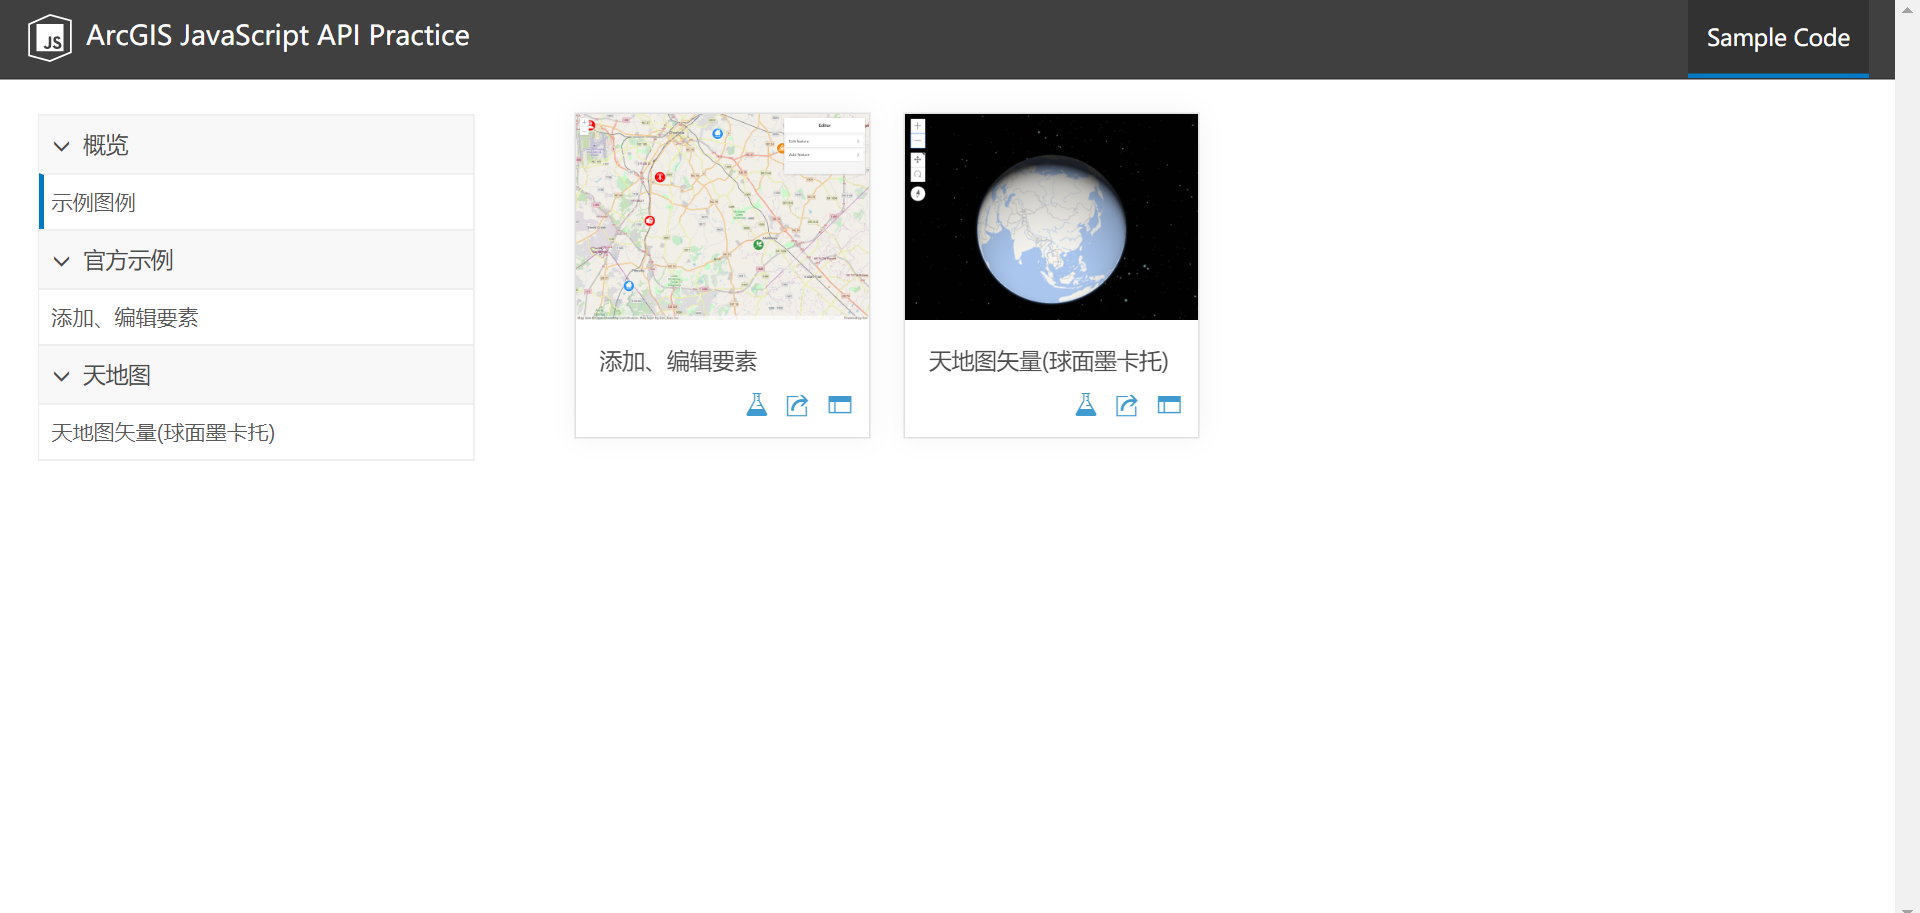
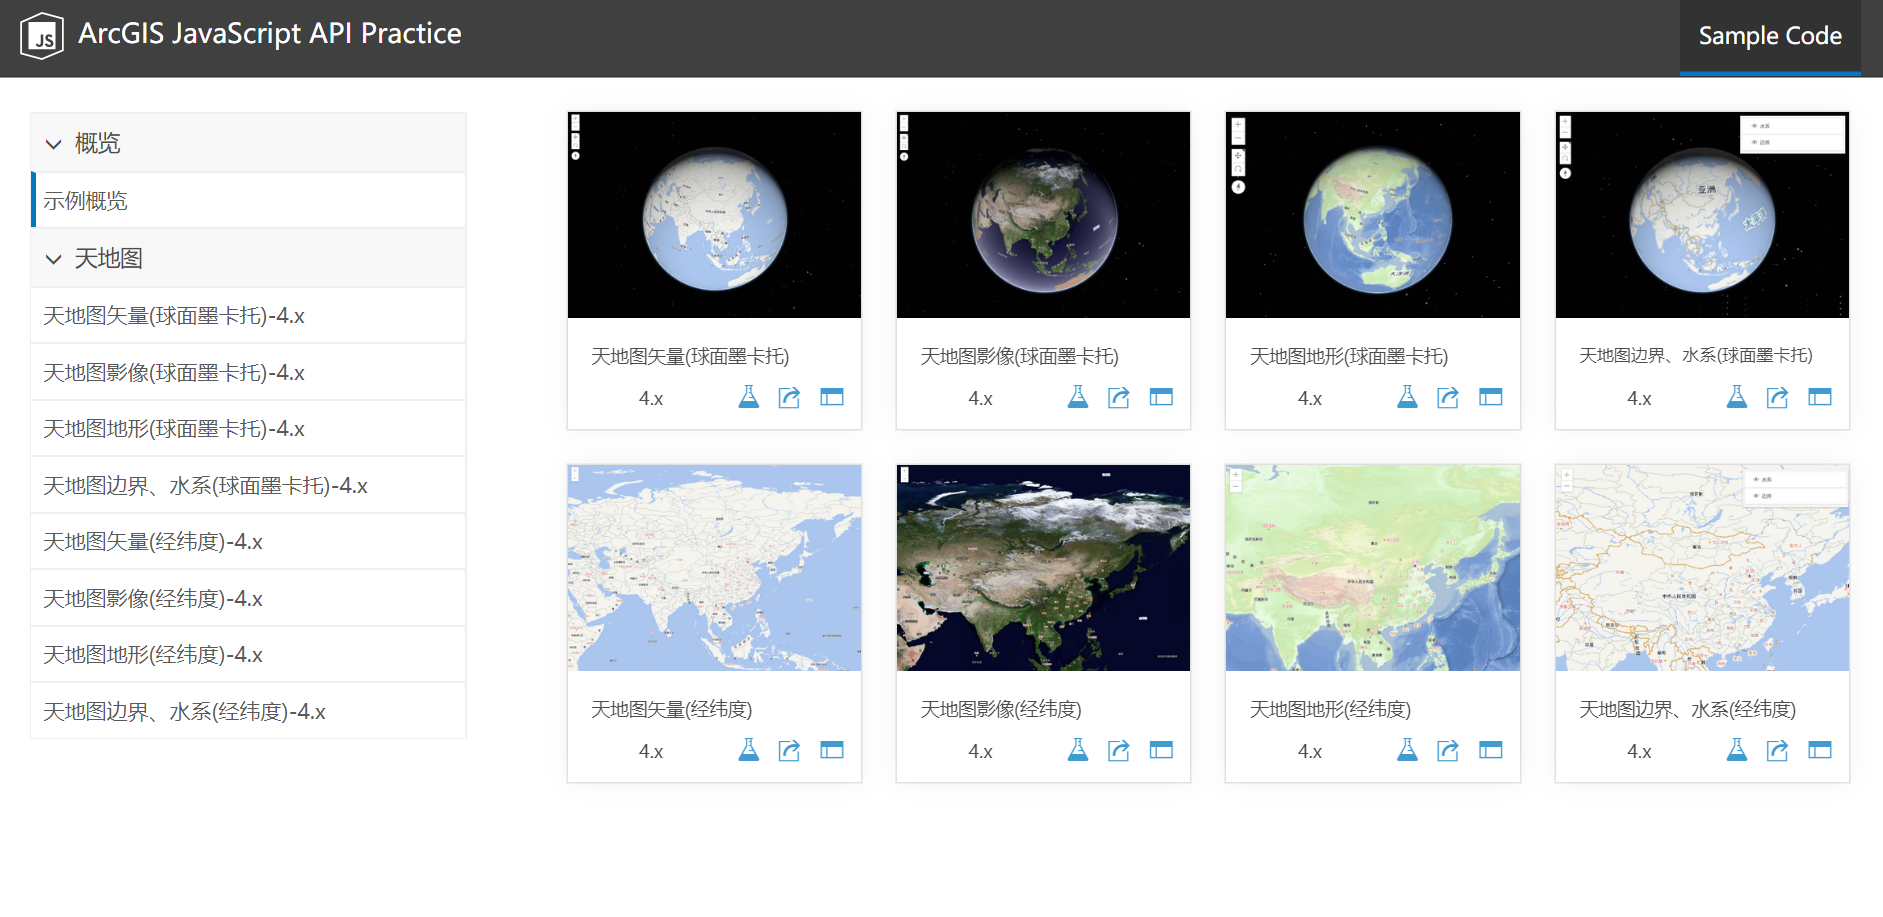
修改天地图边界、水系示例

diff --git a/latest/sample-code/tianditu-ibo_w/live/index.html b/latest/sample-code/tianditu-ibo_w/live/index.html
@@ -3,7 +3,7 @@
 <head>
     <meta charset="utf-8"/>
     <meta name="viewport" content="initial-scale=1,maximum-scale=1,user-scalable=no"/>
-    <title>天地图全球境界(球面墨卡托) - 4.x</title>
+    <title>天地图边界、水系(球面墨卡托) - 4.x</title>
 
     <link rel="stylesheet" href="https://js.arcgis.com/4.12/esri/themes/light/main.css"/>
     <script src="https://js.arcgis.com/4.12/"></script>
@@ -23,31 +23,65 @@
         require([
             "esri/layers/WebTileLayer",
             "esri/Map",
-            "esri/views/SceneView"
-        ], function (WebTileLayer, Map, SceneView) {
+            "esri/views/SceneView",
+            "esri/widgets/LayerList",
+            'dojo/domReady!'
+        ], function (WebTileLayer, Map, SceneView, LayerList) {
             var tiandituBaseUrl = "http://{subDomain}.tianditu.gov.cn"; //天地图服务地址
             var token = "174705aebfe31b79b3587279e211cb9a"; //天地图token
 
+            //矢量地图(球面墨卡托投影)
+            var tiledLayer = new WebTileLayer({
+                title: "矢量地图",
+                urlTemplate: tiandituBaseUrl + "/vec_w/wmts?SERVICE=WMTS&VERSION=1.0.0&REQUEST=GetTile&LAYER=vec&STYLE=default&FORMAT=tiles&TILEMATRIXSET=w&TILEMATRIX={level}&TILEROW={row}&TILECOL={col}&tk=" + token,
+                subDomains: ["t0", "t1", "t2", "t3", "t4", "t5", "t6", "t7"]
+            });
+
+            //矢量注记(球面墨卡托投影)
+            var tiledLayerAnno = new WebTileLayer({
+                title: "矢量注记",
+                urlTemplate: tiandituBaseUrl + "/cva_w/wmts?SERVICE=WMTS&VERSION=1.0.0&REQUEST=GetTile&LAYER=cva&STYLE=default&FORMAT=tiles&TILEMATRIXSET=w&TILEMATRIX={level}&TILEROW={row}&TILECOL={col}&tk=" + token,
+                subDomains: ["t0", "t1", "t2", "t3", "t4", "t5", "t6", "t7"]
+            });
+
+            //边界(球面墨卡托投影)
+            var iboLayer = new WebTileLayer({
+                title: "边界",
+                urlTemplate: tiandituBaseUrl + "/ibo_w/wmts?SERVICE=WMTS&VERSION=1.0.0&REQUEST=GetTile&LAYER=ibo&STYLE=default&FORMAT=tiles&TILEMATRIXSET=w&TILEMATRIX={level}&TILEROW={row}&TILECOL={col}&tk=" + token,
+                subDomains: ["t0", "t1", "t2", "t3", "t4", "t5", "t6", "t7"]
+            });
+
+            //水系(球面墨卡托投影)
+            var waterLayer = new WebTileLayer({
+                title: "水系",
+                urlTemplate: tiandituBaseUrl + "/wat_w/wmts?SERVICE=WMTS&VERSION=1.0.0&REQUEST=GetTile&LAYER=wat&STYLE=default&FORMAT=tiles&TILEMATRIXSET=w&TILEMATRIX={level}&TILEROW={row}&TILECOL={col}&tk=" + token,
+                subDomains: ["t0", "t1", "t2", "t3", "t4", "t5", "t6", "t7"]
+            });
+
             var map = new Map({
-                ground: "world-elevation"
+                ground: "world-elevation",
+                basemap: {
+                    baseLayers: [tiledLayer, tiledLayerAnno]
+                },
+                layers: [iboLayer, waterLayer]
             });
 
             var view = new SceneView({
                 container: "viewDiv",
                 map: map,
                 scale: 123456789,
-                center: [-65, -15]
+                center: [108.953098279, 34.2777998978]
             });
 
-            //全球境界(球面墨卡托投影)
-            var tiledLayer = new WebTileLayer({
-                urlTemplate:
-                tiandituBaseUrl + "/ibo_w/wmts?SERVICE=WMTS&VERSION=1.0.0&REQUEST=GetTile&LAYER=ibo&STYLE=default&FORMAT=tiles&TILEMATRIXSET=w&TILEMATRIX={level}&TILEROW={row}&TILECOL={col}&tk=" + token,
-                subDomains:
-                    ["t0", "t1", "t2", "t3", "t4", "t5", "t6", "t7"]
+            view.when(function () {
+                var layerList = new LayerList({
+                    view: view
+                });
+
+                // Add widget to the top right corner of the view
+                view.ui.add(layerList, "top-right");
             });
 
-            map.add(tiledLayer);
         });
     </script>
 </head>

diff --git a/latest/sample-code/tianditu-ibo_c/live/index.html b/latest/sample-code/tianditu-ibo_c/live/index.html
@@ -3,10 +3,10 @@
 <head>
     <meta charset="utf-8"/>
     <meta name="viewport" content="initial-scale=1,maximum-scale=1,user-scalable=no"/>
-    <title>天地图全球境界(经纬度) - 4.x</title>
+    <title>天地图边界、水系(经纬度) - 4.x</title>
 
     <!-- 用4.12的api会报错  -->
-    <link rel="stylesheet" href="https://js.arcgis.com/4.10/esri/css/main.css"/>
+    <link rel="stylesheet" href="https://js.arcgis.com/4.10/esri/themes/light/main.css"/>
     <script src="https://js.arcgis.com/4.10/"></script>
 
     <style>
@@ -26,8 +26,9 @@
             "esri/layers/WebTileLayer",
             'esri/layers/support/TileInfo',
             'esri/views/MapView',
+            "esri/widgets/LayerList",
             'dojo/domReady!'
-        ], function (Map, WebTileLayer, TileInfo, MapView) {
+        ], function (Map, WebTileLayer, TileInfo, MapView, LayerList) {
             var tiandituBaseUrl = "http://{subDomain}.tianditu.com"; //天地图服务地址
             var token = "174705aebfe31b79b3587279e211cb9a"; //天地图token
 
@@ -65,11 +66,34 @@
                     {level: 19, levelValue: 19, resolution: 2.68220901489257815e-006, scale: 1127.23386023998275},
                     {level: 20, levelValue: 2, resolution: 1.341104507446289075e-006, scale: 563.616930119991375}
                 ]
-            })
+            });
 
-            //地图(经纬度)
+            //矢量地图(经纬度)
             var tiledLayer = new WebTileLayer({
+                urlTemplate: tiandituBaseUrl + "/DataServer?T=vec_c&x={col}&y={row}&l={level}&tk=" + token,
+                subDomains: ["t0", "t1", "t2", "t3", "t4", "t5", "t6", "t7"],
+                tileInfo: tileInfo
+            });
+
+            //矢量注记(经纬度)
+            var tiledLayerAnno = new WebTileLayer({
+                urlTemplate: tiandituBaseUrl + "/DataServer?T=cva_c&x={col}&y={row}&l={level}&tk=" + token,
+                subDomains: ["t0", "t1", "t2", "t3", "t4", "t5", "t6", "t7"],
+                tileInfo: tileInfo
+            });
+
+            //边界(经纬度)
+            var iboLayer = new WebTileLayer({
+                title: "边界",
                 urlTemplate: tiandituBaseUrl + "/DataServer?T=ibo_c&x={col}&y={row}&l={level}&tk=" + token,
+                subDomains: ["t0", "t1", "t2", "t3", "t4", "t5", "t6", "t7"],
+                tileInfo: tileInfo
+            });
+
+            //水系(经纬度)
+            var waterLayer = new WebTileLayer({
+                title: "水系",
+                urlTemplate: tiandituBaseUrl + "/DataServer?T=wat_c&x={col}&y={row}&l={level}&tk=" + token,
                 subDomains: ["t0", "t1", "t2", "t3", "t4", "t5", "t6", "t7"],
                 tileInfo: tileInfo
             });
@@ -80,8 +104,9 @@
                     wkid: 4326
                 },
                 basemap: {
-                    baseLayers: [tiledLayer]
-                }
+                    baseLayers: [tiledLayer, tiledLayerAnno]
+                },
+                layers: [iboLayer, waterLayer]
             });
 
             var view = new MapView({
@@ -90,10 +115,20 @@
                     wkid: 4326
                 },
                 map: map,
-                center: [121.67, 42.01],
+                center: [108.953098279, 34.2777998978],
                 //1:scale的图
-                scale: 2000000
+                scale: 30000000
             });
+
+            view.when(function () {
+                var layerList = new LayerList({
+                    view: view
+                });
+
+                // Add widget to the top right corner of the view
+                view.ui.add(layerList, "top-right");
+            });
+
 
         });
     </script>

diff --git a/latest/sample-code/index.html b/latest/sample-code/index.html
@@ -66,7 +66,7 @@
                         </nav>
                         <nav class="accordion-content">
                             <a href="../../latest/sample-code/sandbox/index.html?sample=tianditu-ibo_w"
-                               target="_blank" class="side-nav-link">天地图全球境界(球面墨卡托)-4.x</a>
+                               target="_blank" class="side-nav-link">天地图边界、水系(球面墨卡托)-4.x</a>
                         </nav>
                         <nav class="accordion-content">
                             <a href="../../latest/sample-code/sandbox/index.html?sample=tianditu-vec_c"
@@ -82,7 +82,7 @@
                         </nav>
                         <nav class="accordion-content">
                             <a href="../../latest/sample-code/sandbox/index.html?sample=tianditu-ibo_c"
-                               target="_blank" class="side-nav-link">天地图全球境界(经纬度)-4.x</a>
+                               target="_blank" class="side-nav-link">天地图边界、水系(经纬度)-4.x</a>
                         </nav>
                     </div>
                 </aside>
@@ -191,7 +191,7 @@
                                         alt="tianditu-ibo_w"></a>
                                 </figure>
                                 <div class="card-content">
-                                    <p class="font-size--4 card-last trailer-1">天地图全球境界(球面墨卡托)</p>
+                                    <p class="font-size--5 card-last trailer-1">天地图边界、水系(球面墨卡托)</p>
                                     <div class="open-out-container">
                                         <span style="padding-right: 30%;font-size: 12px">4.x</span>
                                         <button class="open-out-icon open-out-icon-hidden icon-ui-download js-btn-save-file"
@@ -307,7 +307,7 @@
                                         alt="tianditu-ibo_c"></a>
                                 </figure>
                                 <div class="card-content">
-                                    <p class="font-size--4 card-last trailer-1">天地图全球境界(经纬度)</p>
+                                    <p class="font-size--4 card-last trailer-1">天地图边界、水系(经纬度)</p>
                                     <div class="open-out-container">
                                         <span style="padding-right: 30%;font-size: 12px">4.x</span>
                                         <button class="open-out-icon open-out-icon-hidden icon-ui-download js-btn-save-file"

diff --git a/assets/css/default.css b/assets/css/default.css
@@ -2764,6 +2764,8 @@ html[dir="rtl"] .list-numbered > li:before { left: auto; right: 0; padding: 0 0 
 
 .list-plain li { list-style-type: none; margin-left: 0; }
 
+.font-size--5 { font-size: 0.7125rem; line-height: 1.5; }
+
 .font-size--4 { font-size: 0.775rem; line-height: 1.5; }
 
 .font-size--3 { font-size: 0.8125rem; line-height: 1.5; }
